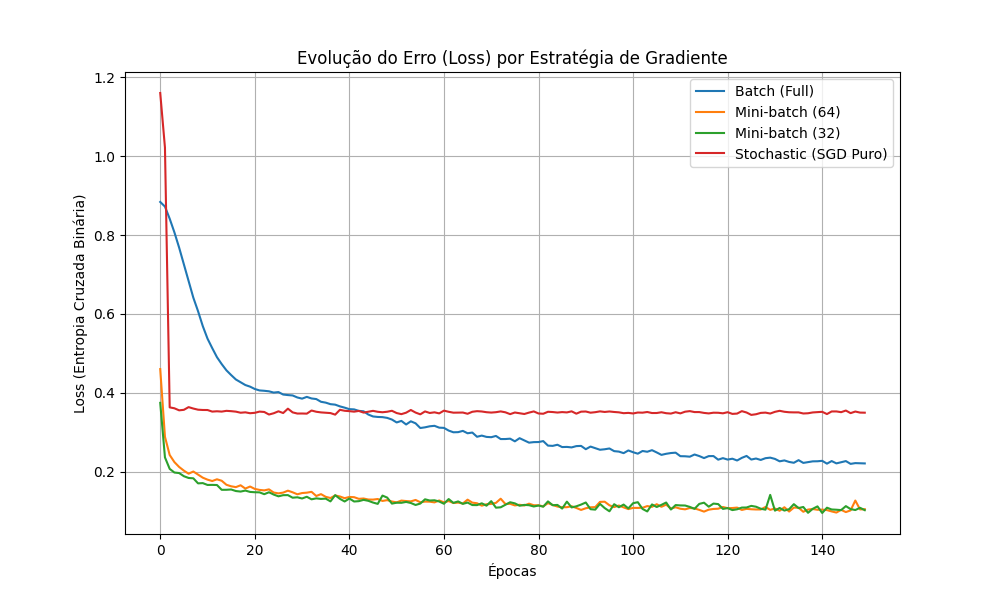
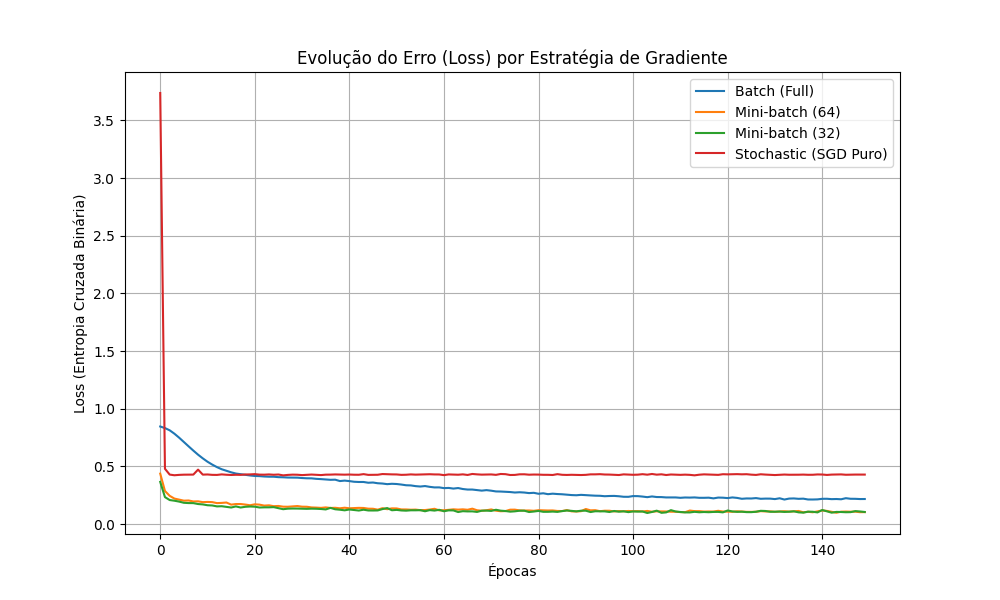
feat: novo teste de resultados

diff --git a/modulos/utils.py b/modulos/utils.py
@@ -1,12 +1,12 @@
 import copy
 
 class EarlyStopping:
-    def __init__(self, patience=10, min_delta=0):
+    def __init__(self, parada=10, min_delta=0):
         """
-        patience: Quantas épocas esperar após a última melhoria antes de parar.
+        parada: Quantas épocas esperar após a última melhoria antes de parar.
         min_delta: Diferença mínima para ser considerada uma melhoria.
         """
-        self.patience = patience
+        self.parada = parada
         self.min_delta = min_delta
         self.counter = 0
         self.best_loss = None
@@ -21,7 +21,7 @@ class EarlyStopping:
         # Se a perda atual não melhorou em relação à melhor perda
         elif val_loss > self.best_loss - self.min_delta:
             self.counter += 1
-            if self.counter >= self.patience:
+            if self.counter >= self.parada:
                 self.early_stop = True
         # Se a perda melhorou
         else:

diff --git a/modulos/traning_evaluation.py b/modulos/traning_evaluation.py
@@ -61,6 +61,9 @@ def teste_final():
 
     resultados_batches = []
     historico_losses = {} # Para plotar o gráfico depois
+    melhor_f1_fase_b = -1
+    melhor_matriz_confusao = None
+    nome_melhor_estrategia = ""
 
     for nome_estrategia, tamanho_batch in estrategias_batch.items():
         print(f"\n-> Testando Estratégia: {nome_estrategia} (Lote: {tamanho_batch})")